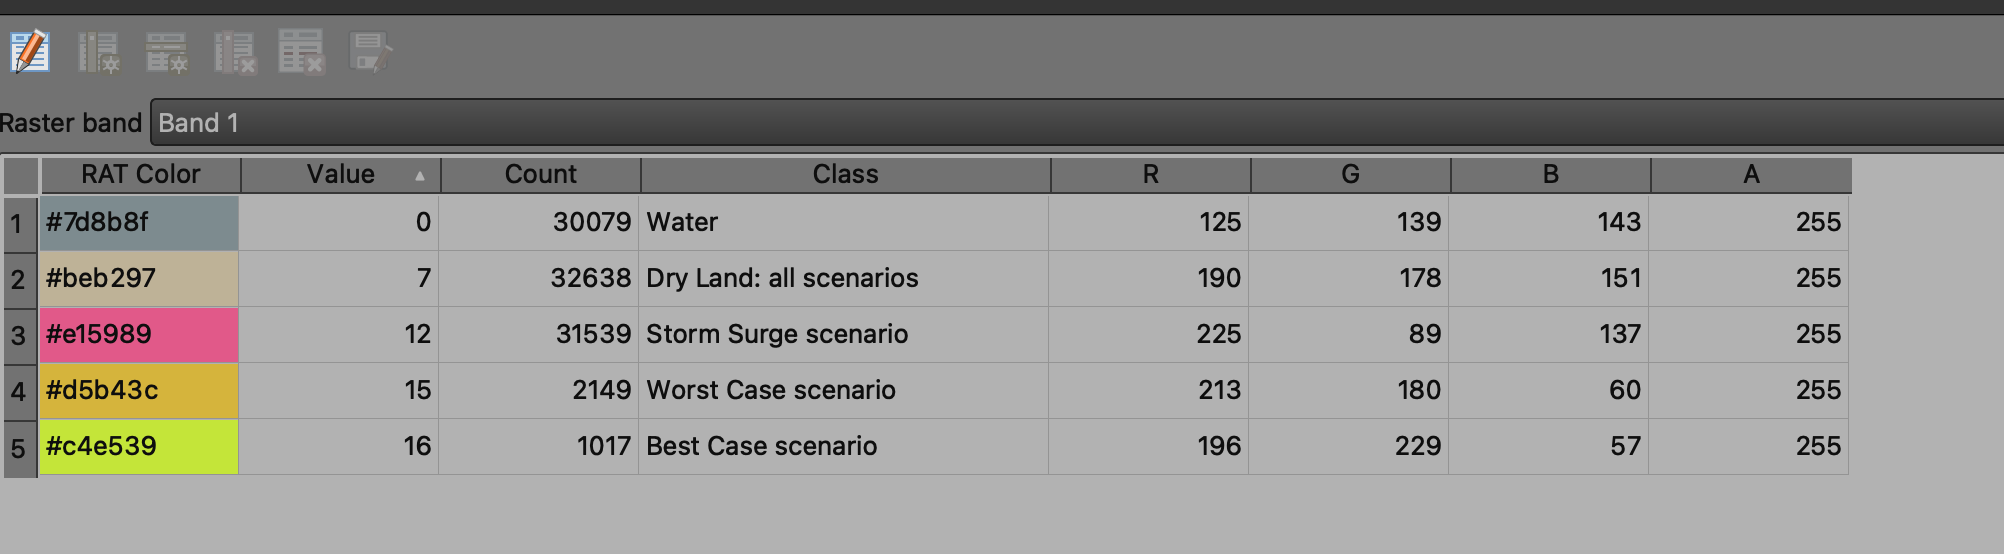
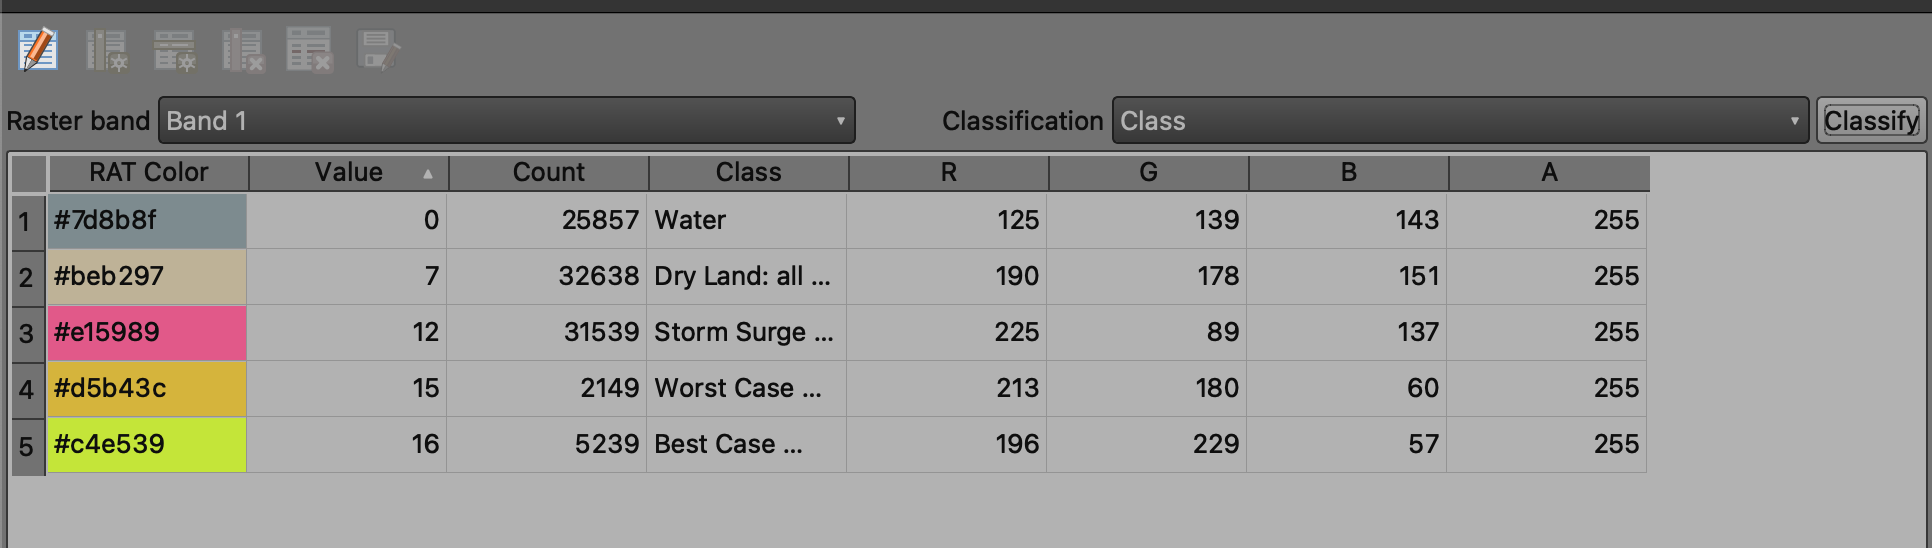
map example revision

diff --git a/assignments/c5_assignment_spring_23_NINT5380.html b/assignments/c5_assignment_spring_23_NINT5380.html
@@ -6,7 +6,7 @@
 
 <meta name="viewport" content="width=device-width, initial-scale=1.0, user-scalable=yes">
 
-<meta name="dcterms.date" content="2023-02-23">
+<meta name="dcterms.date" content="2023-02-24">
 
 <title>Class 5 Assignment: The Raster Model</title>
 <style>
@@ -79,7 +79,7 @@ ul.task-list li input[type="checkbox"] {
     <div>
     <div class="quarto-title-meta-heading">Published</div>
     <div class="quarto-title-meta-contents">
-      <p class="date">February 23, 2023</p>
+      <p class="date">February 24, 2023</p>
     </div>
   </div>
   
@@ -291,7 +291,20 @@ Note
 <li><p>With the <em>Raster Calculator</em>, utilize the following equation templates across the 5 scenario criteria.</p></li>
 <li><p>The first scenario is to isolate land from water. Here land will be set to <code>7</code> and water will be set to <code>0</code> whereby any pixel that is <code>≤ 0</code> is assigned <code>0</code> and any pixel <code>&gt; 0.1</code> is set to <code>7</code>:</p></li>
 </ul>
-<pre><code>("Clipped (mask)@1" &lt;= 0) * 0 + ("Clipped (mask)@1" &gt; 0.1) * 7</code></pre>
+<pre><code>("Clipped (mask)@1" &lt;= 0) * 0 + ("Clipped (mask)@1" &gt; 0) * 7</code></pre>
+<div class="callout-note callout callout-style-default callout-captioned">
+<div class="callout-header d-flex align-content-center">
+<div class="callout-icon-container">
+<i class="callout-icon"></i>
+</div>
+<div class="callout-caption-container flex-fill">
+Note
+</div>
+</div>
+<div class="callout-body-container callout-body">
+<p>In the above equation, the input raster is <code>Clipped (mask)@1</code>; this is the output from the merge and clipped raster process detailed above. If your naming convention is different, certainly use your naming convention in place of <code>Clipped (mask)@1</code>.</p>
+</div>
+</div>
 <ul>
 <li><p>You will assign unique values so that you can merge all grids in the final processing step: best-case scenario (value = 1), worst-case scenario (value = 3), flooded by storm surge (value = 5), area currently underwater (value = 0), and land currently above sea level (value = 7). Odd numbers are chosen so that their sums will produce an unique value scheme with complete separation between conditions.</p></li>
 <li><p>To start, open the <em>Raster Calculator</em> and populate the equation as shown above. Output the result as <code>land</code> into the <code>exports</code> folder within the original data directory:</p></li>
@@ -360,7 +373,7 @@ Note
 <ul>
 <li>Next, move to the best-case scenario (BCS). This is flooding that would occur at the threshold of <code>≤ 0.28</code> meters. Save the output as <code>flood_BCS</code>:</li>
 </ul>
-<pre><code>(("Clipped (mask)@1" &gt; 0.1) AND ("Clipped (mask)@1" &lt;= 0.28)) * 1</code></pre>
+<pre><code>(("Clipped (mask)@1" &gt; 0) AND ("Clipped (mask)@1" &lt;= 0.28)) * 1</code></pre>
 <div class="quarto-figure quarto-figure-center">
 <figure class="figure">
 <p><img src="c5_assignment_spring_23_NINT5380_files/img/20.png" class="img-fluid figure-img"></p>
@@ -376,7 +389,7 @@ Note
 <ul>
 <li>Next, move to the worst-case scenario (WCS). This is flooding that would occur at the threshold of <code>≤ 1.12</code> meters. Here set the TRUE value to <code>3</code>. Save the output as <code>flood_WCS</code>:</li>
 </ul>
-<pre><code>(("Clipped (mask)@1" &gt; 0.1) AND ("Clipped (mask)@1" &lt;= 1.12)) * 3</code></pre>
+<pre><code>(("Clipped (mask)@1" &gt; 0) AND ("Clipped (mask)@1" &lt;= 1.12)) * 3</code></pre>
 <div class="quarto-figure quarto-figure-center">
 <figure class="figure">
 <p><img src="c5_assignment_spring_23_NINT5380_files/img/21.png" class="img-fluid figure-img"></p>
@@ -392,7 +405,7 @@ Note
 <ul>
 <li>Next, move to the storm surge scenario. This is flooding that would occur at the threshold of <code>≤ 10</code> meters. Here set the TRUE value to <code>5</code>. Save the output as <code>flood_storm</code>:</li>
 </ul>
-<pre><code>(("Clipped (mask)@1" &gt; 0.1) AND ("Clipped (mask)@1" &lt;= 10)) * 5</code></pre>
+<pre><code>(("Clipped (mask)@1" &gt; 0) AND ("Clipped (mask)@1" &lt;= 10)) * 5</code></pre>
 <div class="quarto-figure quarto-figure-center">
 <figure class="figure">
 <p><img src="c5_assignment_spring_23_NINT5380_files/img/23.png" class="img-fluid figure-img"></p>
@@ -489,6 +502,15 @@ Note
 <figure class="figure">
 <p><img src="c5_assignment_spring_23_NINT5380_files/img/31.png" class="img-fluid figure-img"></p>
 <p></p><figcaption class="figure-caption"><em>Dissolve Tool Location</em></figcaption><p></p>
+</figure>
+</div>
+<ul>
+<li>Make sure to point <em>Choose Dissove field(s)</em> to <code>VALUE</code>; if this option is not activated, the result will be one polygon, not multiple polygons representing each <em>Zone</em>, i.e.&nbsp;the <code>VALUE</code> attribute.</li>
+</ul>
+<div class="quarto-figure quarto-figure-center">
+<figure class="figure">
+<p><img src="c5_assignment_spring_23_NINT5380_files/img/dissolve.2.png" class="img-fluid figure-img"></p>
+<p></p><figcaption class="figure-caption"><em>Choose Dissove field(s) as <code>VALUE</code> </em></figcaption><p></p>
 </figure>
 </div>
 <div class="quarto-figure quarto-figure-center">
@@ -602,10 +624,10 @@ Warning
 </figure>
 </div>
 <ul>
-<li><p>The resulting <code>Sum</code> value is the total area in square mile units; in this example 23.42 (your value may be slightly different on your machine, and your exact version of QGIS).</p></li>
+<li><p>The resulting <code>Sum</code> value is the total area in square mile units; in this example 24.883 (your value may be slightly different on your machine, and your exact version of QGIS).</p></li>
 <li><p>Next, create a new column for percent land area for each scenario class. The expression for this new column is:</p></li>
 </ul>
-<pre><code>"SQ Mile" / 23.42 * 100</code></pre>
+<pre><code>"SQ Mile" / 24.883 * 100</code></pre>
 <div class="callout-note callout callout-style-default callout-captioned">
 <div class="callout-header d-flex align-content-center">
 <div class="callout-icon-container">
@@ -616,7 +638,7 @@ Note
 </div>
 </div>
 <div class="callout-body-container callout-body">
-<p>The value <code>23.42</code> is the total square miles for the land area in the raster; your value may be slightly different.</p>
+<p>The value <code>24.883</code> is the total square miles for the land area in the raster; your value may be slightly different.</p>
 </div>
 </div>
 <div class="quarto-figure quarto-figure-center">
@@ -697,10 +719,10 @@ Note
 <h2 class="anchored" data-anchor-id="concluding-remarks">Concluding Remarks</h2>
 <ul>
 <li><p>In this assignment, you have covered several fundamental raster-based processes to achieve a meaningful quantitative result for a pressing climate-related spatial problem. Returning to the original questions, we can now answer them both through the spatial patterns seen in the cartographic output as well as the summary table result of the assignment.</p></li>
-<li><p>For the first question <em>How much of Manhattan will be inundated by rising sea levels by 2100?</em> we can answer that the best case scenario is approximately <code>1.5%</code> of Manhattan’s land mass. In the worst case scenario, both the map and the summary result report back <code>3.2%</code>; however, inundation would be additive in the worst case scenario so it really would be both scenarios together for approximately <code>4.7%</code> in the worst case scenario.</p></li>
-<li><p>For the second question <em>How much of Manhattan is at risk of a 10 m (30-foot) storm surge?</em> both mapping and summary table found a very significant spatial extent at <code>46.84%</code>. Following the additive logic of the worst case scenario for sea level rise, the 10 m storm surge equates to the <code>4.7%</code> land mass given over to sea level rise coupled with the storm surge <code>46.84%</code> for a total of <code>51.54%</code>, literally more than half of Manhattan land mass. We need to keep in mind that this is an unprecedented value; Hurricane Sandy, for as bad as it was, amounted to a 14-foot storm surge.</p></li>
+<li><p>For the first question <em>How much of Manhattan will be inundated by rising sea levels by 2100?</em> we can answer that the best case scenario is approximately <code>7.3%</code> of Manhattan’s land mass. In the worst case scenario, both the map and the summary result report back <code>3.0%</code>; however, inundation would be additive in the worst case scenario so it really would be both scenarios together for approximately <code>10.3%</code> in the worst case scenario.</p></li>
+<li><p>For the second question <em>How much of Manhattan is at risk of a 10 m (30-foot) storm surge?</em> both mapping and summary table found a very significant spatial extent at <code>44.07%</code>. Following the additive logic of the worst case scenario for sea level rise, the 10 m storm surge equates to the <code>10.3%</code> land mass given over to sea level rise coupled with the storm surge <code>44.07%</code> for a total of <code>54.37%</code>, literally more than half of Manhattan land mass. We need to keep in mind that this is an unprecedented value; Hurricane Sandy, for as bad as it was, amounted to a 14-foot storm surge.</p></li>
 <li><p>Of important note, both cartographic and summary results are limited in total accuracy due to the relatively large cell size of the assignment DEM input. We utilized this relatively course pixel size (30-meter) in order to speed up the assignment processing. If we were to use 10-meter, 1-meter or even sub-meter resolution DEM, we would certainly achieve more accurate results across all scenarios - it would just take more processing resources to process the more resolute raster data.</p></li>
-<li><p>Finally, our Manhattan Borough boundary included the administrative boundary including water areas. In order to better represent land area, NYC Planning does offer an accurate <a href="https://www.nyc.gov/site/planning/data-maps/open-data/districts-download-metadata.page">shoreline dataset for all 5 boroughs</a>. If we were to use this vector boundary coupled with more resolute DEM raster pixels, we would be able to achieve a more accurate final result in both cartographic and summary table output.</p></li>
+<li><p>Finally, our Manhattan Borough boundary included the administrative boundary including water areas. In order to better represent land area, NYC Planning does offer an accurate <a href="https://www.nyc.gov/site/planning/data-maps/open-data/districts-download-metadata.page">shoreline dataset for all 5 boroughs</a>. If we were to use this vector boundary coupled with more resolute DEM raster pixels, we would be able to achieve a significantly more accurate final result in both cartographic and summary table output.</p></li>
 </ul>
 </section>
 
